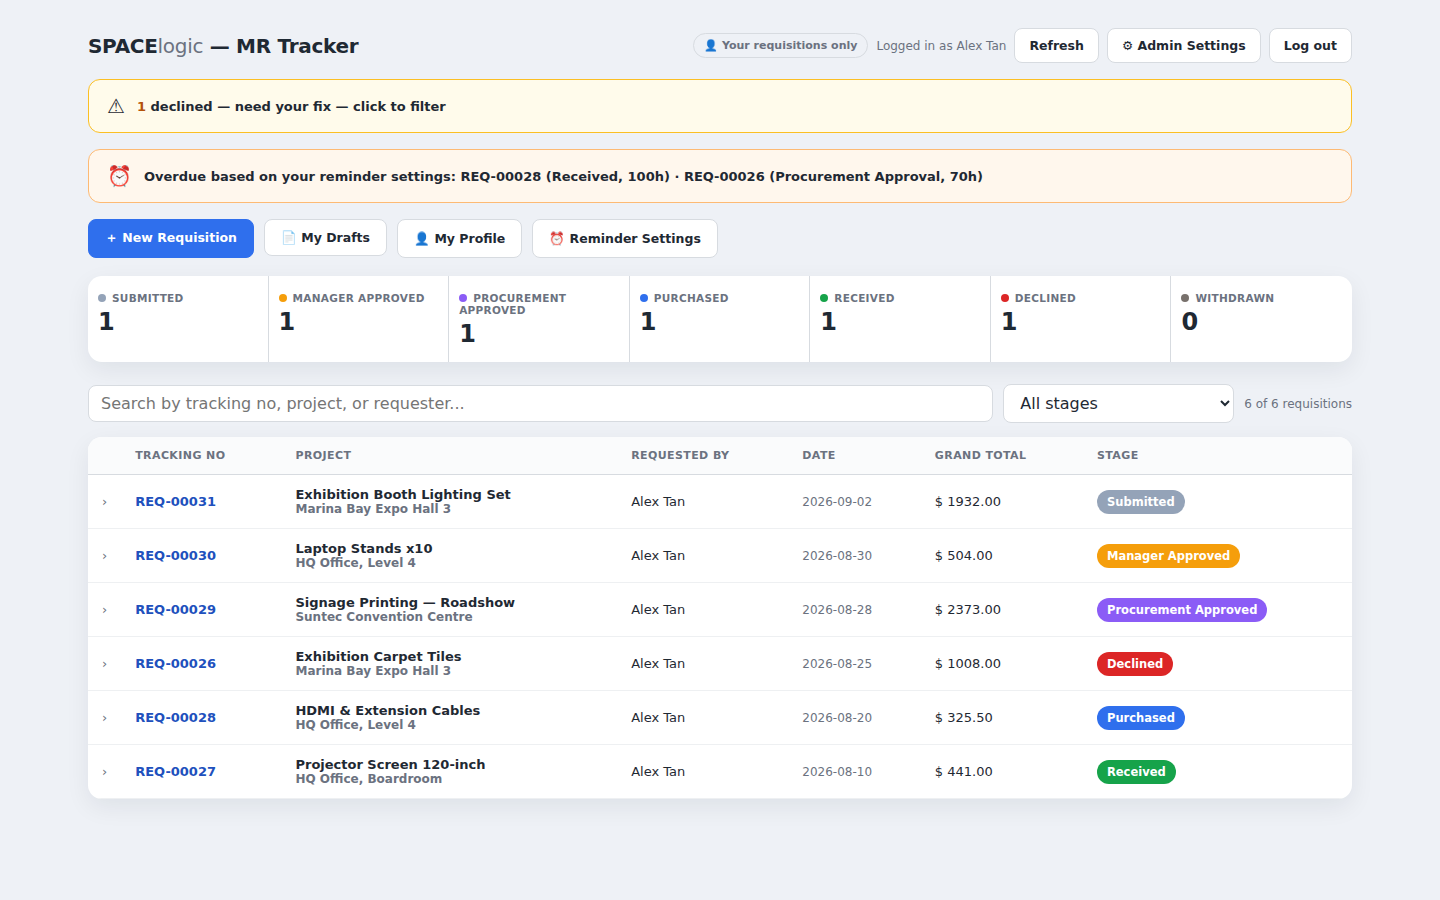
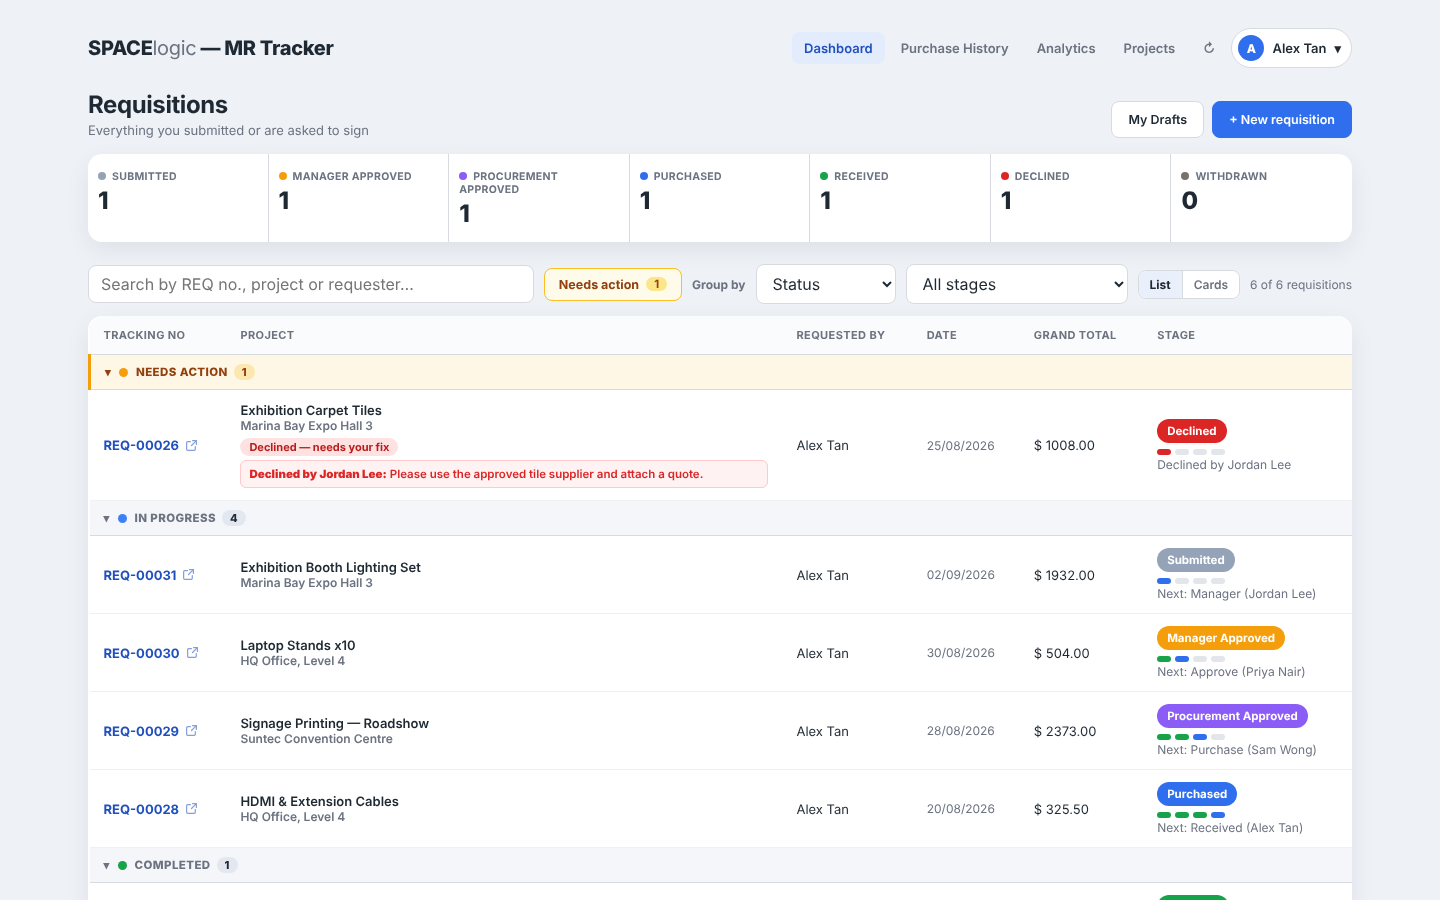
Refresh manual screenshots (list, cards, hover, form, full view); fix floating save-project button; tidy card layout; note esign-hardening status (#18)
Claude-Session: https://claude.ai/code/session_01FARyBiCM3pP2NYTDeieNZv

diff --git a/dashboard.html b/dashboard.html
@@ -179,7 +179,7 @@
   .view-toggle button{ border:0; border-radius:0; background:#fff; padding:6px 11px; font-size:12px; color:var(--muted); }
   .view-toggle button+button{ border-left:1px solid var(--line); }
   .view-toggle button.on{ background:#eaf0fb; color:var(--ink); font-weight:700; }
-  .cards{ display:grid; grid-template-columns:repeat(7,minmax(210px,1fr)); gap:10px; padding:12px; overflow-x:auto; align-items:start; }
+  .cards{ display:grid; grid-template-columns:repeat(7,minmax(172px,1fr)); gap:10px; padding:12px; overflow-x:auto; align-items:start; }
   .kcol{ background:#f4f6fa; border-radius:10px; padding:8px; display:flex; flex-direction:column; gap:8px; min-width:0; }
   .kcol-h{ display:flex; align-items:center; gap:7px; font-size:11.5px; font-weight:800; letter-spacing:.4px; text-transform:uppercase; color:var(--muted); padding:2px 4px 4px; }
   .kcol-h i{ width:8px; height:8px; border-radius:50%; display:inline-block; }
@@ -227,6 +227,11 @@
   .rcard .item-row{ grid-template-columns:1fr 34px 62px 62px; }
   .rcard .item-row>div:nth-child(4){ display:none; }
   .rcard .rc-top{ display:flex; justify-content:space-between; align-items:center; gap:8px; }
+  .rcard .rc-top{ flex-wrap:wrap; gap:2px 8px; }
+  .rcard .rc-top>*{ white-space:nowrap; }
+  .rcard .rc-top .tracking a{ font-size:13px; }
+  .rcard .rc-total{ font-size:13px; }
+  .rcard .rc-meta{ flex-wrap:wrap; gap:0 8px; }
   .rcard .rc-meta{ display:flex; justify-content:space-between; font-size:12px; color:var(--muted); }
   .rcard .rc-total{ font-weight:800; color:var(--ink); }
   .rcard .rc-detail{ border-top:1px solid var(--line); margin-top:4px; padding-top:12px; }
@@ -725,7 +730,7 @@ function render(){
   if(cardsMode){
     if(!allReqs.length){ return; }
     const colOpen = st=>filtered.some(r=>r.status===st) && !collapsedGroups.has("col:"+st);
-    cardWrap.style.gridTemplateColumns = STAGES.map(st=>colOpen(st) ? "minmax(210px,1fr)" : "44px").join(" ");
+    cardWrap.style.gridTemplateColumns = STAGES.map(st=>colOpen(st) ? "minmax(172px,1fr)" : "44px").join(" ");
     cardWrap.innerHTML = STAGES.map(st=>{
       const rows = filtered.filter(r=>r.status===st);
       if(!rows.length) return `<div class="kcol kcol-empty" title="${escapeHtml(st)}: none"><span><i style="background:var(${STAGE_VARS[st]})"></i>${escapeHtml(st)} · 0</span></div>`;

diff --git a/manual.html b/manual.html
@@ -216,7 +216,7 @@
     <div class="sec" id="dashboard">
       <h2>Using the dashboard</h2>
       <p>The dashboard is where everything lives: your own submissions, anything waiting on your signature, and — if you're an admin — every requisition in the system.</p>
-      <figure><img src="images/manual-dashboard.png" alt="The dashboard, showing the full pipeline"><figcaption>The dashboard — every stage, every requisition, at a glance</figcaption></figure>
+      <figure><img src="images/manual-dashboard.png" alt="The dashboard in List layout"><figcaption>The dashboard (List layout) — every stage, every requisition, at a glance</figcaption></figure>
       <ul>
         <li><b>Stage boxes</b> — show counts by stage, and double as a filter. Click any stage to see just those requisitions.</li>
         <li><b>Needs action</b> — shows only the requisitions waiting on you, such as a declined one to fix.</li>
@@ -225,7 +225,8 @@
         <li><b>Point to preview</b> — rest your mouse on a row or card to see its items and who has signed.</li>
         <li><b>Click to open</b> — click a row or card (or the blue REQ number) to open the full form, where the approval chain and all the buttons are.</li>
       </ul>
-      <figure><img src="images/manual-approval-chain.png" alt="Approval chain view"><figcaption>The full form shows exactly who's signed, and who's next</figcaption></figure>
+      <figure><img src="images/manual-cards.png" alt="The dashboard in Cards layout"><figcaption>Cards layout — one column per stage; click a column title to fold it away</figcaption></figure>
+      <figure><img src="images/manual-hover.png" alt="Preview shown when pointing at a requisition"><figcaption>Point at a row to preview its items and who has signed — click to open the full form</figcaption></figure>
     </div>
 
     <div class="sec" id="projects">

diff --git a/index.html b/index.html
@@ -97,6 +97,8 @@
   .btn-soft{background:#eef4ff;border-color:#c7d7fb;color:var(--accent-dark)}
   .btn-soft:hover{background:#e0ebff}
   .tool-btn{position:absolute;right:0;top:-8px;padding:6px 12px;font-size:12px;text-transform:none;letter-spacing:0}
+  #saveProjRow .tool-btn{position:static;padding:6px 12px;font-size:12px;width:auto;justify-self:start;align-self:flex-start}
+  #saveProjRow label{visibility:hidden}
   .tb-label{font-size:12px;font-weight:700;color:#6b7280;margin-right:4px}
   .sign-hint{font-size:12.5px;color:#6b7280;margin-bottom:10px}
   .btn-outline{background:#fff;border-color:var(--accent);color:var(--accent)}
